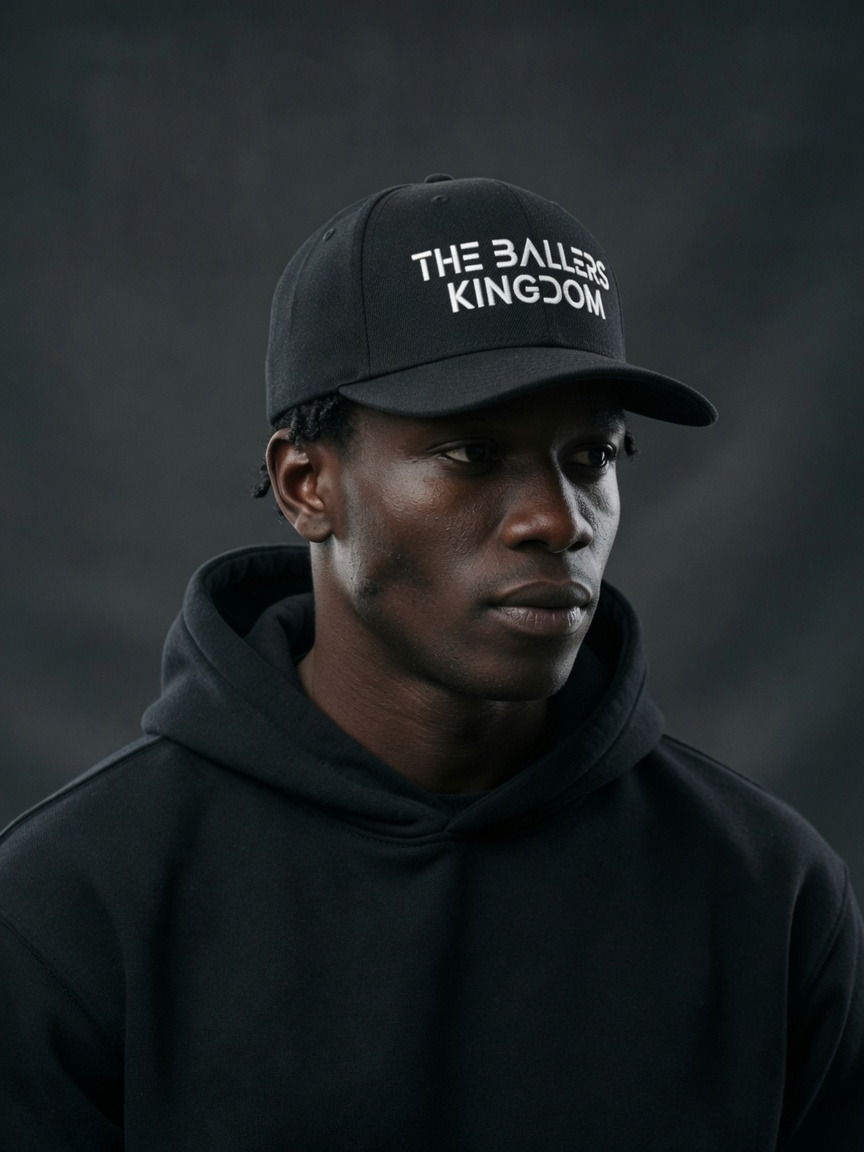
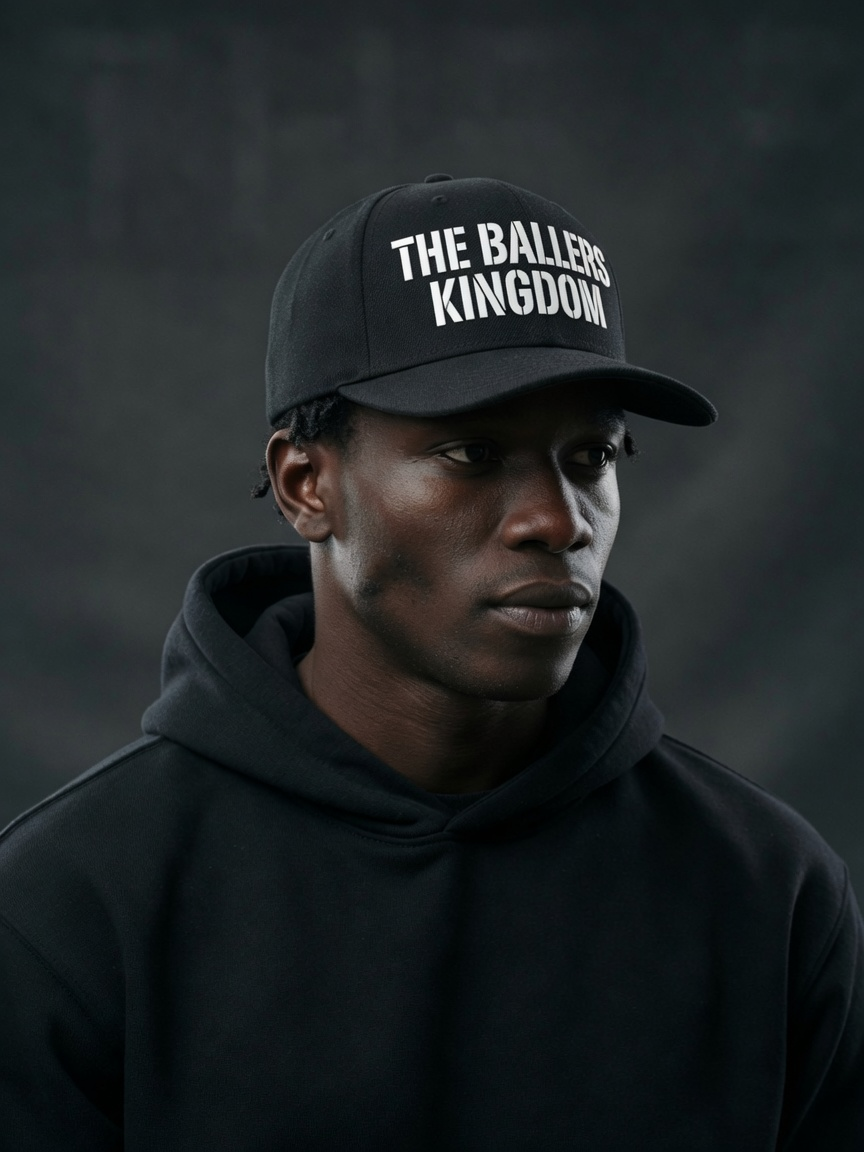
Elevate apparel first drop to editorial stencil collection.
Unify garment prints to stacked THE BALLERS / KINGDOM, rebuild shop as a split-hero drop page, and point the homepage apparel pillar at the preview. Checkout stays off.

Changed region(s): [[0.4375, 0.1875, 0.7188, 0.2812]]

diff --git a/shop.html b/shop.html
@@ -4,7 +4,7 @@
   <meta charset="UTF-8" />
   <meta name="viewport" content="width=device-width, initial-scale=1.0" />
   <title>Apparel — The Ballers Kingdom</title>
-  <meta name="description" content="The Ballers Kingdom first drop: hoodies, training kit, polos, tee, and snapback. Stencil wordmark. Coming soon." />
+  <meta name="description" content="The Ballers Kingdom first drop: hoodies, training kit, polos, tee, and snapback. Stencil wordmark. Preview — checkout is not live." />
   <link rel="canonical" href="https://ballkingdom.com/shop.html" />
   <meta property="og:title" content="Apparel — The Ballers Kingdom" />
   <meta property="og:description" content="Wear the kingdom. First drop preview — hoodies, kit, polos, and the snapback." />
@@ -18,12 +18,109 @@
   <link href="https://fonts.googleapis.com/css2?family=Oswald:wght@400;500;600;700&family=Inter:wght@400;500;600&family=Playfair+Display:ital,wght@0,600;1,600&display=swap" rel="stylesheet" />
   <link rel="stylesheet" href="assets/css/styles.css" />
   <style>
-    .shop-hero { background: linear-gradient(180deg, #050505 0%, #121212 100%); color: var(--white); padding: 88px 0 56px; text-align: center; }
-    .shop-hero .lockup { width: min(520px, 88vw); margin: 22px auto 18px; }
-    .shop-hero h1 { color: var(--white); font-size: clamp(2.4rem, 6vw, 4.6rem); line-height: 0.98; margin: 8px 0 16px; }
-    .shop-hero h1 .accent { color: var(--gray-400); }
-    .shop-hero .lead { color: var(--gray-600); max-width: 56ch; margin: 0 auto 28px; }
-    .tagline { display: block; width: min(420px, 80vw); margin: 0 auto 8px; opacity: 0.85; }
+    .drop-hero {
+      display: grid;
+      grid-template-columns: 1.15fr 0.85fr;
+      min-height: calc(100vh - 72px);
+      background: #050505;
+      color: #fff;
+    }
+    .drop-hero-visual {
+      min-height: 640px;
+      overflow: hidden;
+      background: #0d0d0d;
+    }
+    .drop-hero-visual img {
+      width: 100%;
+      height: 100%;
+      object-fit: cover;
+      object-position: center 12%;
+      display: block;
+    }
+    .drop-hero-copy {
+      display: flex;
+      flex-direction: column;
+      justify-content: center;
+      padding: 64px 48px;
+      max-width: 540px;
+    }
+    .drop-hero-copy .pos-pill { width: fit-content; }
+    .drop-hero-copy .lockup {
+      width: min(420px, 88%);
+      margin: 22px 0 8px;
+    }
+    .drop-hero-copy h1 {
+      color: #fff;
+      font-size: clamp(2.7rem, 5.4vw, 4.6rem);
+      line-height: 0.94;
+      margin: 10px 0 18px;
+    }
+    .drop-hero-copy .lead {
+      color: #9a9a9a;
+      max-width: 36ch;
+      margin: 0 0 14px;
+    }
+    .drop-hero-copy .quiet {
+      color: #6b6b6b;
+      font-size: 0.92rem;
+      max-width: 40ch;
+      margin: 0 0 28px;
+    }
+    .drop-collection {
+      background: #0a0a0a;
+      padding: 72px 0 80px;
+    }
+    .drop-collection .section-header h2 { color: #fff; }
+    .drop-collection .section-header .lead { color: #8a8a8a; }
+    .drop-collection .kicker { color: #b0b0b0; }
+    .drop-grid {
+      display: grid;
+      grid-template-columns: repeat(6, 1fr);
+      gap: 14px;
+    }
+    .drop-grid .product-card {
+      grid-column: span 2;
+      background: #111;
+      border: 1px solid #222;
+      border-radius: 0;
+    }
+    .drop-grid .product-card.featured { grid-column: span 3; }
+    .drop-grid .product-card img {
+      aspect-ratio: 3 / 4;
+      object-fit: cover;
+      object-position: center 16%;
+      background: #141414;
+    }
+    .drop-grid .product-meta { color: #cfcfcf; padding: 16px 16px 20px; }
+    .drop-grid .product-meta h3 { color: #fff; margin: 6px 0 0; font-size: 1.02rem; }
+    .drop-grid .edition {
+      font-family: var(--font-display);
+      letter-spacing: 0.18em;
+      font-size: 0.68rem;
+      color: #8a8a8a;
+      text-transform: uppercase;
+    }
+    .shop-note {
+      background: #111;
+      border: 1px solid #2a2a2a;
+      color: #ddd;
+    }
+    .shop-note h2 { color: #fff; }
+    .shop-note p { color: #9a9a9a; }
+    .drop-notify { background: #0a0a0a; padding: 0 0 88px; }
+    @media (max-width: 980px) {
+      .drop-grid { grid-template-columns: repeat(2, 1fr); }
+      .drop-grid .product-card,
+      .drop-grid .product-card.featured { grid-column: span 1; }
+    }
+    @media (max-width: 900px) {
+      .drop-hero { grid-template-columns: 1fr; min-height: auto; }
+      .drop-hero-visual { min-height: 78vw; max-height: 640px; }
+      .drop-hero-copy { padding: 36px 22px 48px; }
+    }
+    @media (max-width: 620px) {
+      .drop-grid { grid-template-columns: 1fr; }
+    }
   </style>
 </head>
 <body>
@@ -49,41 +146,43 @@
   </div>
 </nav>
 
-<header class="shop-hero">
-  <div class="container">
+<header class="drop-hero">
+  <div class="drop-hero-visual">
+    <img src="assets/img/apparel-hoodie-black.jpg" alt="The Ballers Kingdom black heavyweight hoodie, stencil wordmark" width="864" height="1152" />
+  </div>
+  <div class="drop-hero-copy">
     <span class="pos-pill">First drop · Preview</span>
-    <img src="assets/img/logo-wordmark-white.png" alt="The Ballers Kingdom — dedicated to training and development at the highest level" class="lockup" width="520" height="67" />
-    <h1>Wear the kingdom.<br /><span class="accent">Coming soon.</span></h1>
-    <p class="lead">Hoodies, training kit, polos, tee, and snapback. Full stencil wordmark. Nothing is for sale until the shop launches. Drops will fund scholarships and impact programs.</p>
-    <div class="hero-ctas" style="justify-content:center;">
-      <a href="products.html" class="btn btn-primary">Explore Digital Products →</a>
-      <a href="soccer.html" class="btn btn-ghost">Explore Training</a>
+    <img src="assets/img/logo-wordmark-white.png" alt="The Ballers Kingdom" class="lockup" width="420" height="54" />
+    <h1>Wear the kingdom.</h1>
+    <p class="lead">Black, grey, white. One stencil. Hoodies, training kit, polos, tee, snapback.</p>
+    <p class="quiet">Nothing is for sale yet. When it opens, drops fund scholarships and impact programs.</p>
+    <div class="hero-ctas">
+      <a href="#collection" class="btn btn-primary">See the collection</a>
+      <a href="mailto:info@ballkingdom.com?subject=Shop%20launch%20list" class="btn btn-ghost">Get first word</a>
     </div>
   </div>
 </header>
 
-<section>
+<section class="drop-collection" id="collection">
   <div class="container">
     <div class="section-header">
-      <div class="kicker">First drop</div>
-      <h2>The opening collection.</h2>
-      <p class="lead">Black, grey, and white. One stencil mark. Preview only — checkout is not live.</p>
+      <div class="kicker">The collection</div>
+      <h2>Eight pieces. One mark.</h2>
+      <p class="lead">Stacked stencil wordmark. Built for training, the office, and the street.</p>
     </div>
-    <div class="shop-grid">
-      <article class="product-card" data-reveal>
+    <div class="drop-grid">
+      <article class="product-card featured" data-reveal>
         <img src="assets/img/apparel-hoodie-black.jpg" alt="The Ballers Kingdom black heavyweight hoodie with stencil wordmark" width="864" height="1152" />
         <div class="product-meta">
           <div class="edition">Athleisure · Black</div>
           <h3>Heavyweight Hoodie</h3>
-          <span class="product-soon">Preview · Coming soon</span>
         </div>
       </article>
-      <article class="product-card" data-reveal>
+      <article class="product-card featured" data-reveal>
         <img src="assets/img/apparel-hoodie-grey.jpg" alt="The Ballers Kingdom grey heavyweight hoodie with tonal stencil wordmark" width="864" height="1152" />
         <div class="product-meta">
           <div class="edition">Athleisure · Grey</div>
           <h3>Heavyweight Hoodie</h3>
-          <span class="product-soon">Preview · Coming soon</span>
         </div>
       </article>
       <article class="product-card" data-reveal>
@@ -91,7 +190,6 @@
         <div class="product-meta">
           <div class="edition">Athleisure · Women's</div>
           <h3>Heavyweight Hoodie</h3>
-          <span class="product-soon">Preview · Coming soon</span>
         </div>
       </article>
       <article class="product-card" data-reveal>
@@ -99,7 +197,6 @@
         <div class="product-meta">
           <div class="edition">Athleisure · Black</div>
           <h3>Heavy Tee</h3>
-          <span class="product-soon">Preview · Coming soon</span>
         </div>
       </article>
       <article class="product-card" data-reveal>
@@ -107,7 +204,6 @@
         <div class="product-meta">
           <div class="edition">Training · Black</div>
           <h3>Training Kit</h3>
-          <span class="product-soon">Preview · Coming soon</span>
         </div>
       </article>
       <article class="product-card" data-reveal>
@@ -115,7 +211,6 @@
         <div class="product-meta">
           <div class="edition">Headwear · Black</div>
           <h3>Snapback</h3>
-          <span class="product-soon">Preview · Coming soon</span>
         </div>
       </article>
       <article class="product-card" data-reveal>
@@ -123,7 +218,6 @@
         <div class="product-meta">
           <div class="edition">Office · Black</div>
           <h3>Polo</h3>
-          <span class="product-soon">Preview · Coming soon</span>
         </div>
       </article>
       <article class="product-card" data-reveal>
@@ -131,19 +225,18 @@
         <div class="product-meta">
           <div class="edition">Office · White</div>
           <h3>Polo</h3>
-          <span class="product-soon">Preview · Coming soon</span>
         </div>
       </article>
     </div>
   </div>
 </section>
 
-<section class="section-stone">
+<section class="drop-notify">
   <div class="container">
     <div class="shop-note" data-reveal>
-      <h2>What's coming</h2>
-      <p>This first drop is the look. Checkout is not live yet. Built for Ballers, parents, and the Inland Empire.</p>
-      <p>Want first word when it opens? Email <a href="mailto:info@ballkingdom.com?subject=Shop%20launch%20list">info@ballkingdom.com</a> or book a call — we'll add you to the list.</p>
+      <h2>First word when it opens</h2>
+      <p>This is the look. Checkout is not live. Built for Ballers, parents, and the Inland Empire.</p>
+      <p>Email <a href="mailto:info@ballkingdom.com?subject=Shop%20launch%20list">info@ballkingdom.com</a> and we’ll add you to the list.</p>
       <a href="mailto:info@ballkingdom.com?subject=Shop%20launch%20list" class="btn btn-ghost">Email the Kingdom</a>
     </div>
   </div>

diff --git a/index.html b/index.html
@@ -205,7 +205,7 @@
     <img src="assets/img/logo-wordmark-white.png" alt="The Ballers Kingdom" class="hero-lockup" width="520" height="67" />
     <h1>Building Ballers.<br />Advancing Kingdoms.<br /><span class="accent">Continually Setting the Standard.</span></h1>
     <p class="sub">
-      The Ballers Kingdom offers personal soccer training and multi-dimensional development consulting. Apparel is coming soon. Founded in 2019 by <strong>Brian Kennedy Jr, M.Ed</strong> — 2024 California 30 Under 30, 2× BIG EAST Champion, NCAA Final Four &amp; Elite 8 Providence Friar, Pro experience.
+      The Ballers Kingdom offers personal soccer training and multi-dimensional development consulting. Apparel first drop is in preview. Founded in 2019 by <strong>Brian Kennedy Jr, M.Ed</strong> — 2024 California 30 Under 30, 2× BIG EAST Champion, NCAA Final Four &amp; Elite 8 Providence Friar, Pro experience.
     </p>
     <div class="hero-ctas">
       <a href="soccer.html" class="btn btn-primary">Explore Training →</a>
@@ -225,7 +225,7 @@
     <div class="section-header">
       <div class="kicker">Kingdom System</div>
       <h2>Three pillars. One kingdom.</h2>
-      <p class="lead">Training, consulting, and apparel — built to develop the whole athlete on and off the field. The shop is coming soon.</p>
+      <p class="lead">Training, consulting, and apparel — built to develop the whole athlete on and off the field.</p>
     </div>
     <div class="ks-grid">
       <a class="ks-card" href="soccer.html" data-reveal>
@@ -246,8 +246,8 @@
         <span class="ks-num">03</span>
         <span class="ks-icon">SH</span>
         <h3 class="ks-title">Apparel &amp; Shop <span class="ks-soon">Coming Soon</span></h3>
-        <p class="ks-desc">Wear the kingdom. Community gear that will fund scholarships and impact programs. The shop is not live yet.</p>
-        <span class="ks-arrow">See what's coming →</span>
+        <p class="ks-desc">First drop preview: hoodies, kit, polos, tee, snapback. One stencil. Checkout is not live.</p>
+        <span class="ks-arrow">See the first drop →</span>
       </a>
     </div>
   </div>
